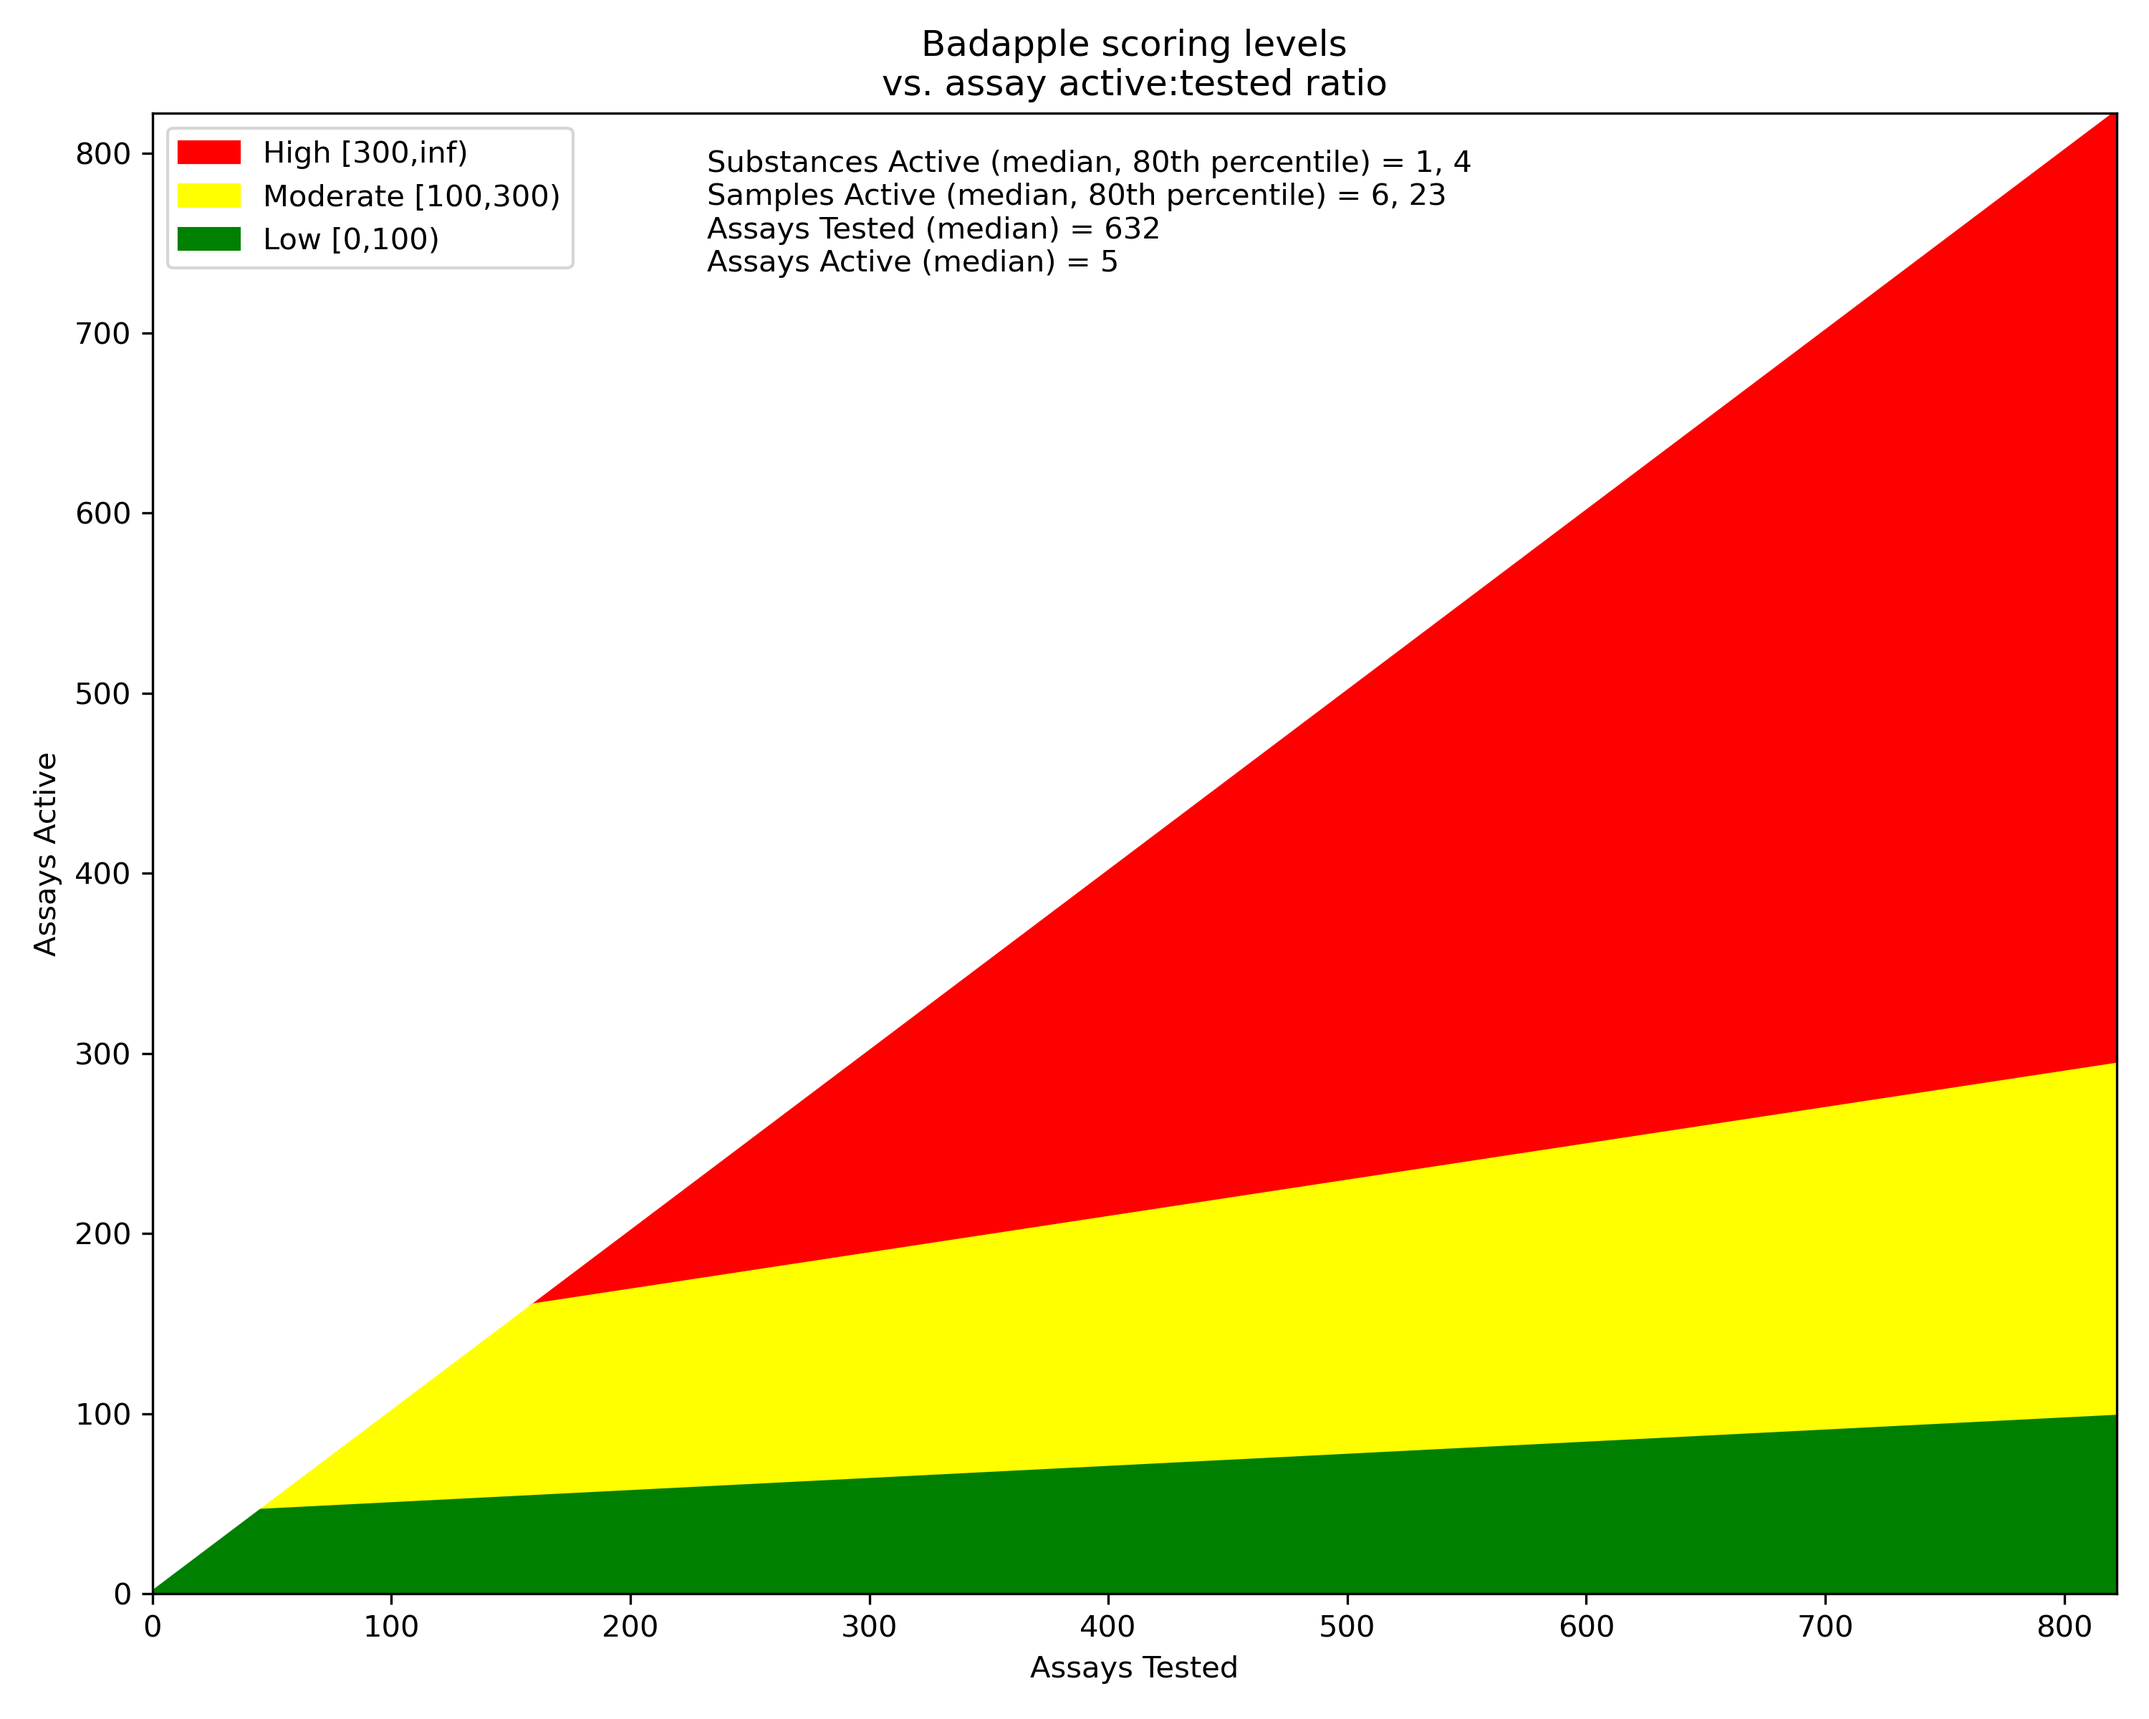
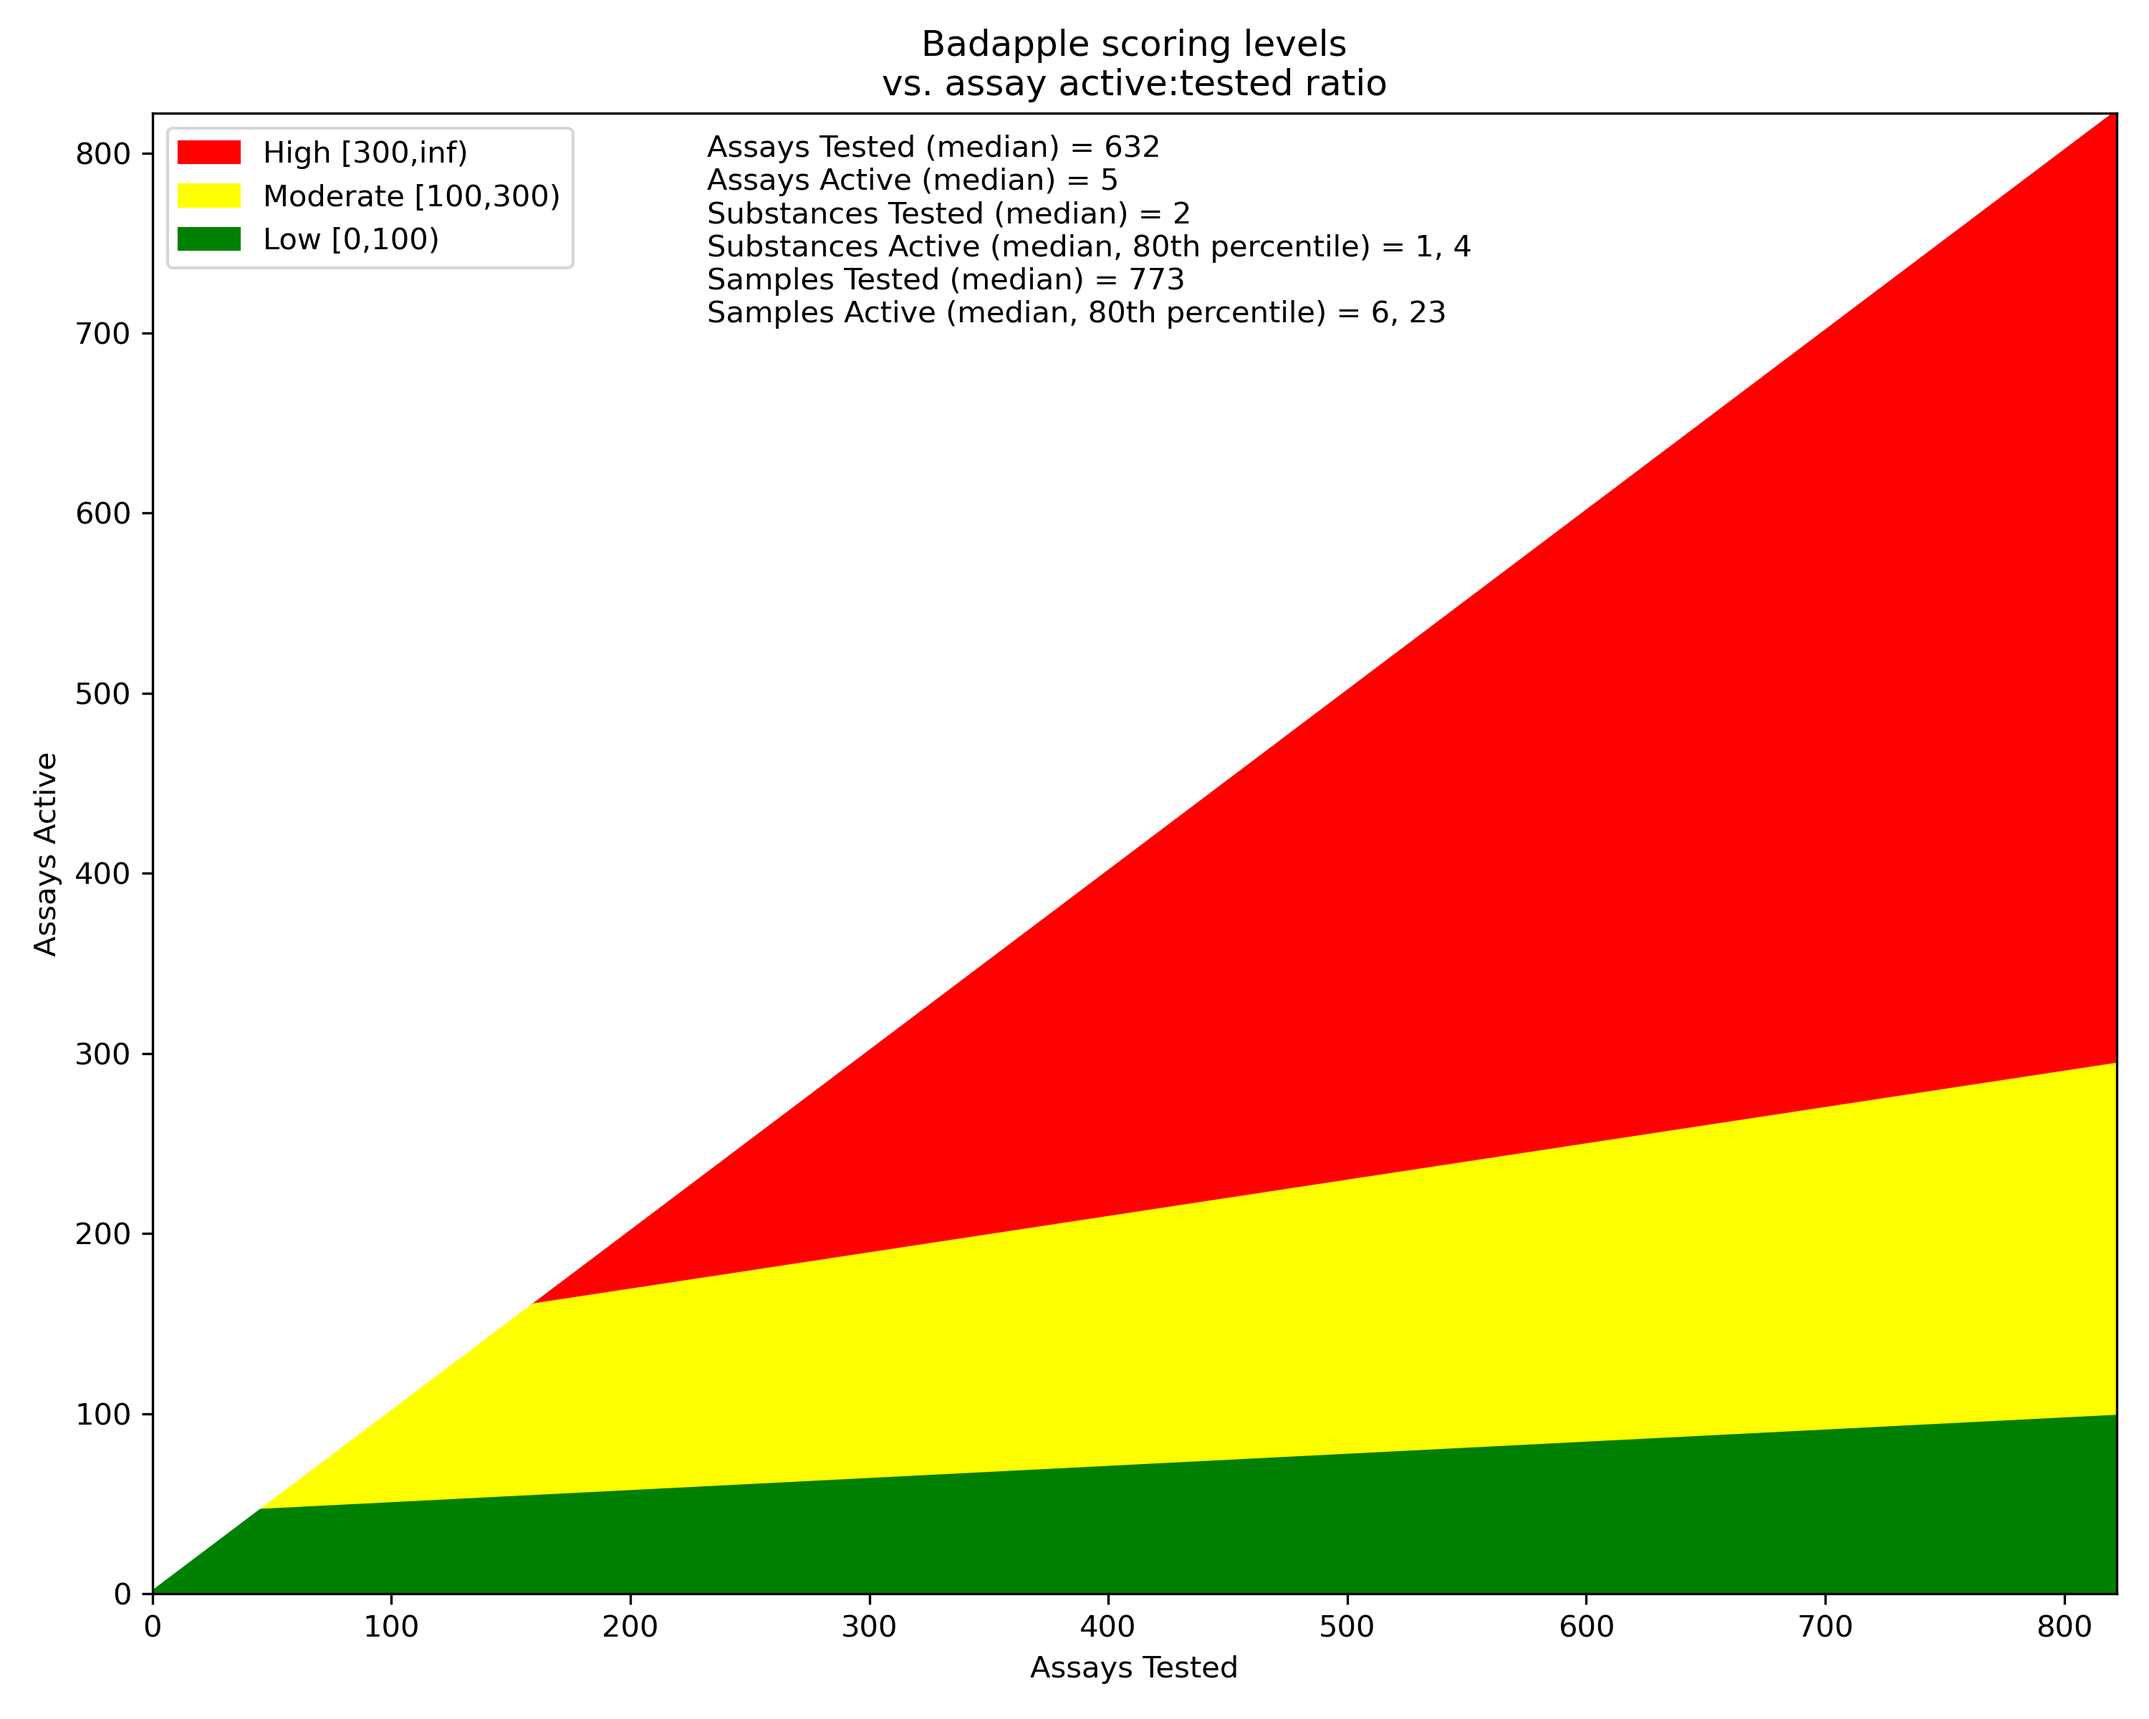
update plot to include addl. stats

Changed region(s): [[0.31, 0.0625, 0.682, 0.1875]]

diff --git a/src/plot_badapple_formula.py b/src/plot_badapple_formula.py
@@ -146,20 +146,22 @@ def create_plot(db_connection, logger, plot_fname):
     p = leg.get_window_extent()
 
     # Add annotation
-    annotate_str = "Substances Active (median, 80th percentile) = %d, %d\n" % (
+    annotate_str = "Assays Tested (median) = %d\n" % (params["med_aTested"])
+    annotate_str += "Assays Active (median) = %d\n" % (params["med_aActive"])
+    annotate_str += "Substances Tested (median) = %d\n" % (params["med_sTested"])
+    annotate_str += "Substances Active (median, 80th percentile) = %d, %d\n" % (
         params["med_sActive"],
         p80_sActive,
     )
+    annotate_str += "Samples Tested (median) = %d\n" % (params["med_wTested"])
     annotate_str += "Samples Active (median, 80th percentile) = %d, %d\n" % (
         params["med_wActive"],
         p80_wActive,
     )
-    annotate_str += "Assays Tested (median) = %d\n" % (params["med_aTested"])
-    annotate_str += "Assays Active (median) = %d\n" % (params["med_aActive"])
     plt.annotate(
         annotate_str,
-        xy=(p.p0[0] + 100, p.p1[1] + 60),
-        xytext=(p.p0[0] + 100, p.p1[1] + 60),
+        xy=(p.p0[0] + 100, p.p1[1] + 50),
+        xytext=(p.p0[0] + 100, p.p1[1] + 50),
         ha="left",
         va="center",
         fontsize=10,
